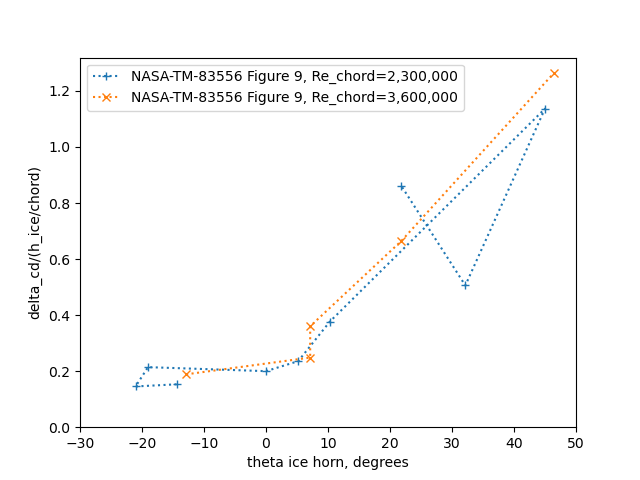
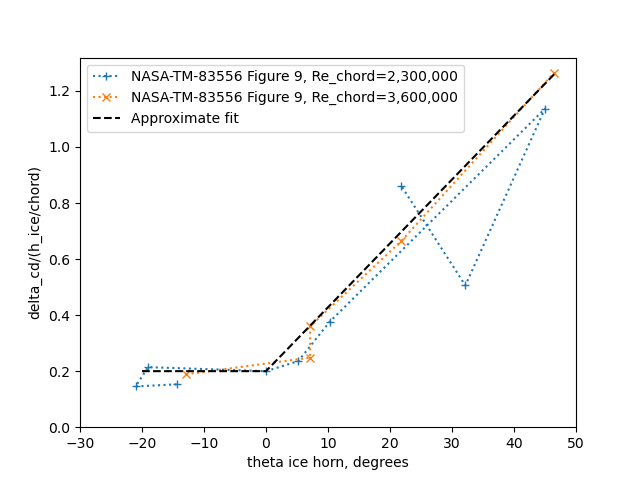
Update conclusions of the ice shapes thread

diff --git a/content/conclusions_of_the_ice_shapes_thread.md b/content/conclusions_of_the_ice_shapes_thread.md
@@ -108,7 +108,7 @@ correlates as well to the ice shape height and theta as
 the icing conditions equations (1) and (2). 
 They convey very similar information. 
 
-I view this even more validation of Uwe von Glahn's assertion that 
+I view this as further validation of Uwe von Glahn's assertion that 
 **"The collection of ice by the cylinders is similar to the collection of ice by airplane components"** [^4] from 1955.  
 
 ####AEDC-TR-87-23 [^5]
@@ -136,13 +136,13 @@ aerodynamic effect of drag due to an ice shape,
 and that the corresponding shape factors (location and height of the ice horn)
 are aerodynamically meaningful.__
 
-###Comparison to LEWICE2D [^6] and NACA-TR-446
+###Comparison of NASA-TM-83556 [^7] to LEWICE2D [^6] and NACA-TR-446
 
 In the [Conclusions of the Cylinder Thread]({filename}cylinder_thread_wrap_up.md) 
 and [Conclusions of the Icing Thermodynamics Thread]({filename}thermodynamics_thread_wrap_up.md) 
 comparisons to LEWICE 2D were made. 
 
-We will do so again here, using data from NASA-TM-83556 [^7] where 
+We will do so again here, using data from NASA-TM-83556 where 
 the drag due to ice shapes was measured. 
 (We will review this data in more detail in the upcoming "Icing Wind Tunnel Test Thread").
 Fortunately, a NACA0012 airfoil was used, as was used in NACA-TR-446. 
@@ -175,30 +175,30 @@ while the ice horn bases are at values of x/c < 0.005.
 This is pushing _"discriminating use of the data"_ [^8] to its limits.
 The measured ice data only roughly corresponds to the protuberance data: 
 
-![](images/nasa-tm-83556/nasa_tm_83556_xc_delta_cd_normalized.png)  
+![Comparison of NASA-TM-83556 data to NACA-TR-446](images/nasa-tm-83556/nasa_tm_83556_xc_delta_cd_normalized.png)  
 
 we will also use a fit of delta Cd due to ice with ice horn angle and ice height,
 and allow extrapolation to larger horn angles (this is a subset of the data in AEDC-TR-87-23).  
 
-![Figure 10 data fit for ice angle](images/nasa-tm-83556/nasa_tm_83556_theta_delta_cd_normalized.png)  
+![Fit of NASA-TM-83556 data](images/nasa-tm-83556/nasa_tm_83556_theta_delta_cd_normalized.png)  
 
-We will also use NASA-TM-D-2166 [^9] methods, using the LEWICE calculated ice horn location and height, 
-and using ice horn location and height calculated from the icing conditions and NACA0012 impingement characteristics. 
+(A comparison to NASA-TM-D-2166 [^9] methods were discussed in the review of [NASA-TM-D-2166]({}NASA-TM-D-2166.md),
+and were found to be of limited accuracy.)
 
 With any of the very approximate extrapolation of Cd, 
 the estimated effects are different than Figure 10 (b) from above. 
 
-![Calculated Cd values for figure 10 conditions](images/nasa-tm-83556/nasa_tm_83556_lewice_comparison_extrapolated_cd.png)  
-
 ![Figure 10b from NASA-TM-83556](images/nasa-tm-83556/Figure 10b.png)
+
+![Calculated Cd values for figure 10 conditions](images/nasa-tm-83556/nasa_tm_83556_lewice_comparison_extrapolated_cd.png)  
 
 With the NACA-TR-446 based extrapolation, the 338 km/h case at -2C is correctly identified 
 as the case with the largest effect, but the other values do not match Figure 10 (b) well. 
 
-The other methods do not correctly identify the condition with the largest section drag coefficient,
-but for the extrapolated NASA-TM-83556 data at least the condition was a close second. 
-In general, they do not match Figure 10 (b) well. 
-I suppose that "first-order approximation" (from NASA-TM-D-2166) applies as a description. 
+The method using a fit of NASA-TM-83556 horn angle data did not correctly identify the condition with the largest section drag coefficient,
+least the highest Cd test condition was a close second in the analysis. 
+In general, values do not match Figure 10 (b) well. 
+I suppose that "first-order approximation" (a phrase from NASA-TM-D-2166) applies as a description. 
 
 Note that these results were for a moderate chord (0.53 m) airfoil. 
 Results may be different for a larger or smaller airfoil in
